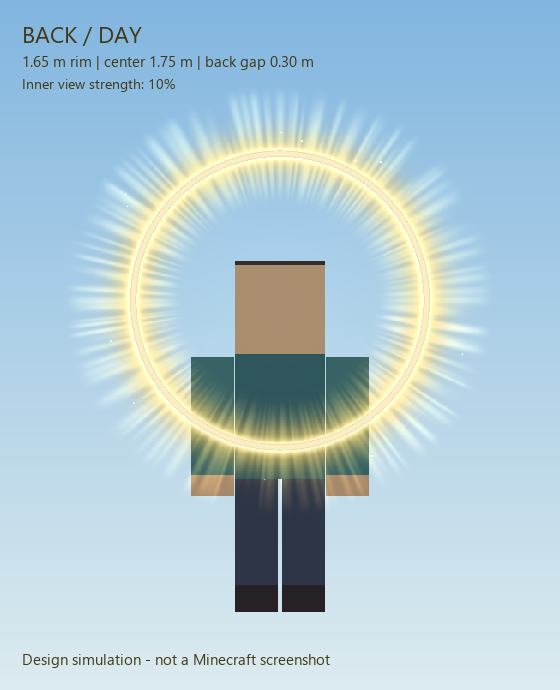
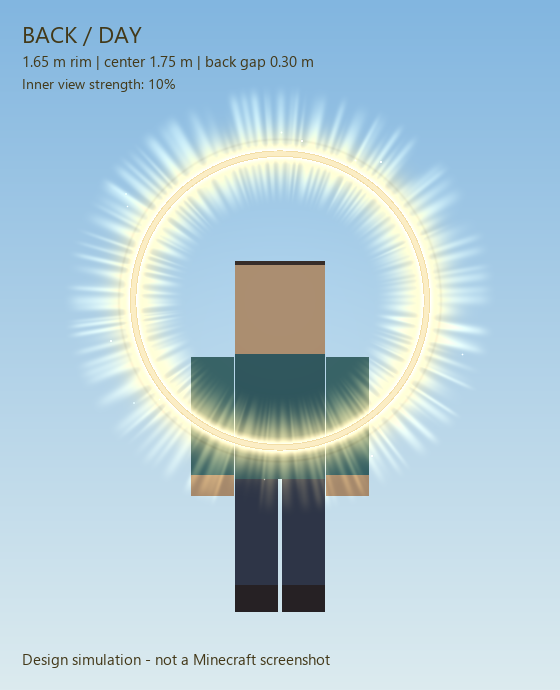
Fix halo diffuse dimming and brighten gold textures; match preview filtering

Changed region(s): [[0.1821, 0.1826, 0.8196, 0.7]]

diff --git a/src/main/java/net/offkung/bhspellsx/client/renderer/jing_guang_pan/JingGuangPanHaloRenderer.java b/src/main/java/net/offkung/bhspellsx/client/renderer/jing_guang_pan/JingGuangPanHaloRenderer.java
@@ -39,21 +39,21 @@ public final class JingGuangPanHaloRenderer {
             p.translate(center.x-camera.x,center.y-camera.y,center.z-camera.z);
             p.mulPose(Axis.YP.rotationDegrees(-yaw)); p.scale((float)scale,(float)scale,(float)scale);
             // Rear views keep only additive inner light: never place a dark translucent disc over the body.
-            plane(p,buffers.getBuffer(JingGuangPanRenderTypes.get("halo_inner",false)),
+            plane(p,buffers.getBuffer(JingGuangPanHaloRenderTypes.get("halo_inner",false)),
                     (float)(INNER_ALPHA*innerGain*(1-rear))*alpha*pulse);
-            buffers.endBatch(JingGuangPanRenderTypes.get("halo_inner",false));
-            plane(p,buffers.getBuffer(JingGuangPanRenderTypes.get("halo_inner",true)),
+            buffers.endBatch(JingGuangPanHaloRenderTypes.get("halo_inner",false));
+            plane(p,buffers.getBuffer(JingGuangPanHaloRenderTypes.get("halo_inner",true)),
                     (float)(INNER_ADDITIVE*innerGain)*alpha*pulse);
-            buffers.endBatch(JingGuangPanRenderTypes.get("halo_inner",true));
+            buffers.endBatch(JingGuangPanHaloRenderTypes.get("halo_inner",true));
             p.pushPose(); p.mulPose(Axis.ZP.rotationDegrees((float)(age*ROTATION_DEGREES_PER_SECOND/20)));
-            plane(p,buffers.getBuffer(JingGuangPanRenderTypes.get("halo_rays",true)),RAYS_ALPHA*alpha*pulse);
-            p.popPose(); buffers.endBatch(JingGuangPanRenderTypes.get("halo_rays",true));
-            plane(p,buffers.getBuffer(JingGuangPanRenderTypes.get("halo_ring",false)),RING_ALPHA*alpha);
-            buffers.endBatch(JingGuangPanRenderTypes.get("halo_ring",false));
-            plane(p,buffers.getBuffer(JingGuangPanRenderTypes.get("halo_ring",true)),GLOW_ALPHA*alpha*pulse);
-            buffers.endBatch(JingGuangPanRenderTypes.get("halo_ring",true));
+            plane(p,buffers.getBuffer(JingGuangPanHaloRenderTypes.get("halo_rays",true)),RAYS_ALPHA*alpha*pulse);
+            p.popPose(); buffers.endBatch(JingGuangPanHaloRenderTypes.get("halo_rays",true));
+            plane(p,buffers.getBuffer(JingGuangPanHaloRenderTypes.get("halo_ring",false)),RING_ALPHA*alpha);
+            buffers.endBatch(JingGuangPanHaloRenderTypes.get("halo_ring",false));
+            plane(p,buffers.getBuffer(JingGuangPanHaloRenderTypes.get("halo_ring",true)),GLOW_ALPHA*alpha*pulse);
+            buffers.endBatch(JingGuangPanHaloRenderTypes.get("halo_ring",true));
             // Thin solid rim thickness makes an exactly edge-on view readable.
-            var v=buffers.getBuffer(JingGuangPanRenderTypes.get("halo_spark",false));
+            var v=buffers.getBuffer(JingGuangPanHaloRenderTypes.get("halo_spark",false));
             for (int i=0;i<RING_SEGMENTS;i++) for (int j=0;j<TUBE_SEGMENTS;j++) {
                 for (int[] corner:new int[][]{{i,j},{i+1,j},{i+1,j+1},{i,j+1}}) {
                     double t=corner[0]*2*Math.PI/RING_SEGMENTS, q=corner[1]*2*Math.PI/TUBE_SEGMENTS;
@@ -61,13 +61,13 @@ public final class JingGuangPanHaloRenderer {
                     vertex(p,v,new Vec3(r*Math.cos(t),r*Math.sin(t),RIM_TUBE_RADIUS*Math.sin(q)),.5f,.5f,alpha,CREAM);
                 }
             }
-            buffers.endBatch(JingGuangPanRenderTypes.get("halo_spark",false));
+            buffers.endBatch(JingGuangPanHaloRenderTypes.get("halo_spark",false));
             Random random=new Random(SPARK_SEED);
             Vector3f right=new Vector3f(1,0,0).rotate(event.getCamera().rotation());
             Vector3f up=new Vector3f(0,1,0).rotate(event.getCamera().rotation());
             // Transform camera axes into halo-local coordinates so sparks remain billboards.
             right.rotateY((float)radians); up.rotateY((float)radians);
-            v=buffers.getBuffer(JingGuangPanRenderTypes.get("halo_spark",true));
+            v=buffers.getBuffer(JingGuangPanHaloRenderTypes.get("halo_spark",true));
             for (int i=0;i<SPARK_COUNT;i++) {
                 double t=random.nextDouble()*2*Math.PI+Math.toRadians(age*ROTATION_DEGREES_PER_SECOND/20);
                 double r=SPARK_RADIUS_MIN+random.nextDouble()*(SPARK_RADIUS_MAX-SPARK_RADIUS_MIN);
@@ -76,7 +76,7 @@ public final class JingGuangPanHaloRenderer {
                 Vec3 x=new Vec3(right.x,right.y,right.z).scale(size), y=new Vec3(up.x,up.y,up.z).scale(size);
                 quad(p,v,c.subtract(x).add(y),c.add(x).add(y),c.add(x).subtract(y),c.subtract(x).subtract(y),SPARK_ALPHA*alpha*pulse);
             }
-            buffers.endBatch(JingGuangPanRenderTypes.get("halo_spark",true));
+            buffers.endBatch(JingGuangPanHaloRenderTypes.get("halo_spark",true));
         } finally { p.popPose(); }
     }
     private static void plane(PoseStack p,VertexConsumer v,float alpha) {

diff --git a/src/main/java/net/offkung/bhspellsx/client/renderer/jing_guang_pan/JingGuangPanHaloRenderTypes.java b/src/main/java/net/offkung/bhspellsx/client/renderer/jing_guang_pan/JingGuangPanHaloRenderTypes.java
@@ -1,0 +1,36 @@
+package net.offkung.bhspellsx.client.renderer.jing_guang_pan;
+
+import com.mojang.blaze3d.platform.GlStateManager;
+import com.mojang.blaze3d.systems.RenderSystem;
+import com.mojang.blaze3d.vertex.DefaultVertexFormat;
+import com.mojang.blaze3d.vertex.VertexFormat;
+import java.util.HashMap;
+import java.util.Map;
+import net.minecraft.client.renderer.GameRenderer;
+import net.minecraft.client.renderer.RenderStateShard;
+import net.minecraft.client.renderer.RenderType;
+import net.minecraft.resources.ResourceLocation;
+
+/** Halo-only unlit shader: no normal-based dimming or 0.1 texture-alpha cutoff. Explicit blend/culling avoids vanilla eyes RenderType defaults; wave rendering is unchanged. */
+public final class JingGuangPanHaloRenderTypes {
+    private static final Map<String,RenderType> CACHE=new HashMap<>();
+    public static RenderType get(String name, boolean additive) {
+        return CACHE.computeIfAbsent(name+additive,key -> {
+            var texture=ResourceLocation.fromNamespaceAndPath("bhspellsx","textures/vfx/jing_guang_pan/"+name+".png");
+            var blend=new RenderStateShard.TransparencyStateShard("jing_guang_pan_halo_"+additive,() -> {
+                RenderSystem.enableBlend();
+                RenderSystem.blendFunc(GlStateManager.SourceFactor.SRC_ALPHA,
+                        additive ? GlStateManager.DestFactor.ONE : GlStateManager.DestFactor.ONE_MINUS_SRC_ALPHA);
+            },() -> { RenderSystem.disableBlend(); RenderSystem.defaultBlendFunc(); });
+            var state=RenderType.CompositeState.builder()
+                .setShaderState(new RenderStateShard.ShaderStateShard(GameRenderer::getRendertypeEyesShader))
+                .setTextureState(new RenderStateShard.TextureStateShard(texture,true,false))
+                .setTransparencyState(blend).setCullState(new RenderStateShard.CullStateShard(false))
+                .setLightmapState(new RenderStateShard.LightmapStateShard(false))
+                .setOverlayState(new RenderStateShard.OverlayStateShard(true))
+                .setWriteMaskState(new RenderStateShard.WriteMaskStateShard(true,false)).createCompositeState(false);
+            return RenderType.create("jing_guang_pan_halo_"+key,DefaultVertexFormat.NEW_ENTITY,VertexFormat.Mode.QUADS,4096,false,true,state);
+        });
+    }
+    private JingGuangPanHaloRenderTypes() {}
+}

diff --git a/tools/generate_jing_guang_pan_halo.py b/tools/generate_jing_guang_pan_halo.py
@@ -68,15 +68,17 @@ def texture_set():
    halo=np.exp(-((r-ring)/RING_SOFT_WIDTH)**2)*.62
    a=np.maximum(shoulder*.98,halo)*edge
    mix=ridge*.86
-   c=GOLD*(1-mix[...,None])+WHITE*mix[...,None]
+   body=GOLD*.55+CREAM*.45
+   c=body*(1-mix[...,None])+WHITE*mix[...,None]
    # Broad pigmented gold outer shoulder remains visible against a bright sky.
-   outer=smooth((np.abs(r-ring)-.035)/.075)
-   c=c*(1-.32*outer[...,None])+DEEP*.32*outer[...,None]
+   outer=np.exp(-((r-(ring+.065))/.006)**2)
+   c=c*(1-.24*outer[...,None])+DEEP*.24*outer[...,None]
   elif kind=='halo_inner':
    # A filled warm sun: maximum luminance behind the head, no grey spiral pattern.
    a=.98*np.exp(-(r/(ring*.98))**4)*smooth((ring+.14-r)/.14)*edge
    hot=np.exp(-(r/.31)**2)
-   c=GOLD*(1-hot[...,None])+WHITE*hot[...,None]
+   body=GOLD*.55+CREAM*.45
+   c=body*(1-hot[...,None])+WHITE*hot[...,None]
   elif kind=='halo_rays':
    energy=np.zeros_like(r); rng=np.random.default_rng(SEED)
    for i in range(RAY_COUNT):
@@ -89,7 +91,8 @@ def texture_set():
     energy+=ray
    a=(1-np.exp(-energy))*edge
    tint=np.exp(-((r-ring)/.095)**2)*.65
-   c=GOLD*(1-tint[...,None])+CREAM*tint[...,None]
+   body=GOLD*.75+CREAM*.25
+   c=body*(1-tint[...,None])+CREAM*tint[...,None]
   else:
    a=np.maximum(np.exp(-np.abs(x)*42-np.abs(y)*5),np.exp(-np.abs(y)*42-np.abs(x)*5))
    a=np.maximum(a,np.exp(-(r/.10)**2)); a*=smooth((1-r)/.20)
@@ -153,7 +156,13 @@ def scene(tex,view,night):
   ix=(ux+1)*.5*(im.width-1); iy=(1-uy)*.5*(im.height-1)
   inside=(ix>=0)&(ix<im.width-1)&(iy>=0)&(iy<im.height-1)
   x=np.clip(ix,0,im.width-1).astype(int);y=np.clip(iy,0,im.height-1).astype(int)
-  pix=np.asarray(im)/255; sample=pix[y,x]
+  pix=np.asarray(im)/255
+  # GPU bilinear sampling with straight RGBA, no mipmaps (same as halo RenderType).
+  fx=(np.clip(ix,0,im.width-1)-x)[...,None];fy=(np.clip(iy,0,im.height-1)-y)[...,None]
+  x2=np.minimum(x+1,im.width-1);y2=np.minimum(y+1,im.height-1)
+  sample=(pix[y,x]*(1-fx)+pix[y,x2]*fx)*(1-fy)+(pix[y2,x]*(1-fx)+pix[y2,x2]*fx)*fy
+  # Eyes shader: no diffuse-light multiplier and no 0.1 alpha discard.
+  # Preview is within the no-fog range; shaderpack post-processing is not simulated.
   z=wx*math.sin(angle)-BACK_Z*math.cos(angle)
   alpha=sample[:,:,3]*gain*inside*(z>=bodydepth-1e-5)
   if add:img[:]=np.clip(img+sample[:,:,:3]*alpha[...,None],0,1)

diff --git a/MERGE.md b/MERGE.md
@@ -1168,3 +1168,27 @@ client setup. Constants hold dimensions, opacity, timing, palette, mesh quality 
   first-person self, body yaw while flying/shooting, daylight/night and Oculus shaderpacks.
   Use players or mobs, never the target dummy for visual validation. Changing the halo's
   render stage is not a claimed fix for the separate existing wave/dummy interaction.
+
+
+### Halo brightness correction (2026-09-27)
+
+Halo rendering now uses its own `JingGuangPanHaloRenderTypes`, with the vanilla eyes shader
+and explicit SRC_ALPHA blend factors, culling disabled, depth test and no depth writes.
+Do not substitute vanilla RenderType.eyes(), whose blend defaults differ. The wave factory
+and wave assets are unchanged. The previous entity-translucent-emissive vertex shader
+applied minecraft_mix_light (0.4..1 brightness) despite FULL_BRIGHT UV2, and its fragment
+shader discarded texture alpha below 0.1. Eyes removes both diffuse shading and that cutoff.
+Verified Oculus 1.8.0 maps the getter to ENTITIES_EYES / SpiderEyes / FULLBRIGHT; shaderpacks
+can still override blending, fog and post-processing, so actual appearance needs in-game
+verification. Both vanilla shader paths apply fog fade, not fog-color tint; no blanket fog
+removal was introduced without evidence of it causing the reported near-player problem.
+
+All four halo and four wave textures had warm RGB, not black, at zero alpha. Filtering is
+bilinear with mipmaps disabled, so no black-fringe repair was warranted. Halo ring/inner
+pigment is now 55% gold + 45% cream; ray pigment is 75% gold + 25% cream. Deep gold is limited
+to a narrow outer ring shoulder (24% mix), replacing the broad 32% dark-gold contribution.
+The generator/preview now uses bilinear RGBA sampling instead of nearest-neighbor sampling;
+its alpha and additive compositing match the intended custom blend states, with unit diffuse
+lighting and no near-range fog. It does not simulate shaderpack post-processing. No in-game
+screenshots were accessible in the request; conclusions are based on code/assets and the
+reported symptoms, not a claim of a verified in-game visual match.
